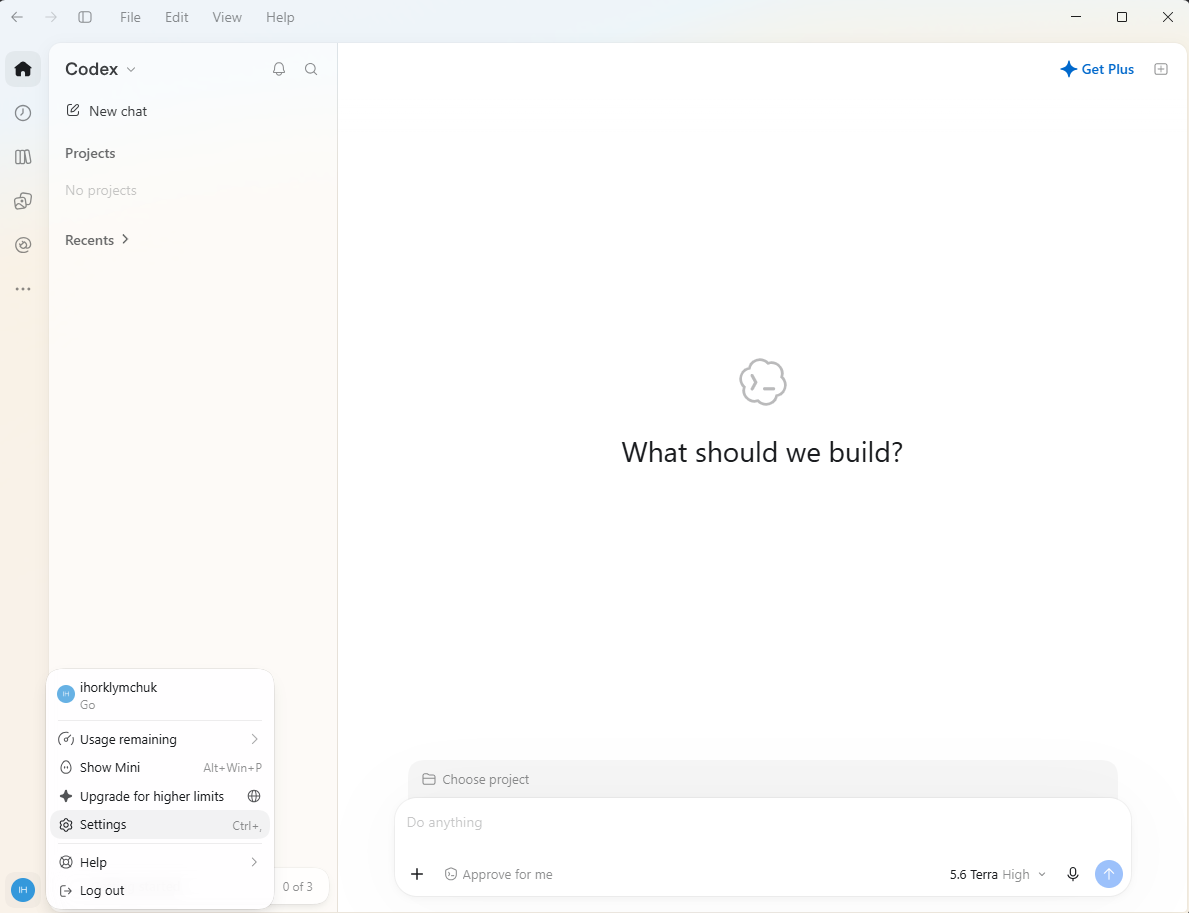
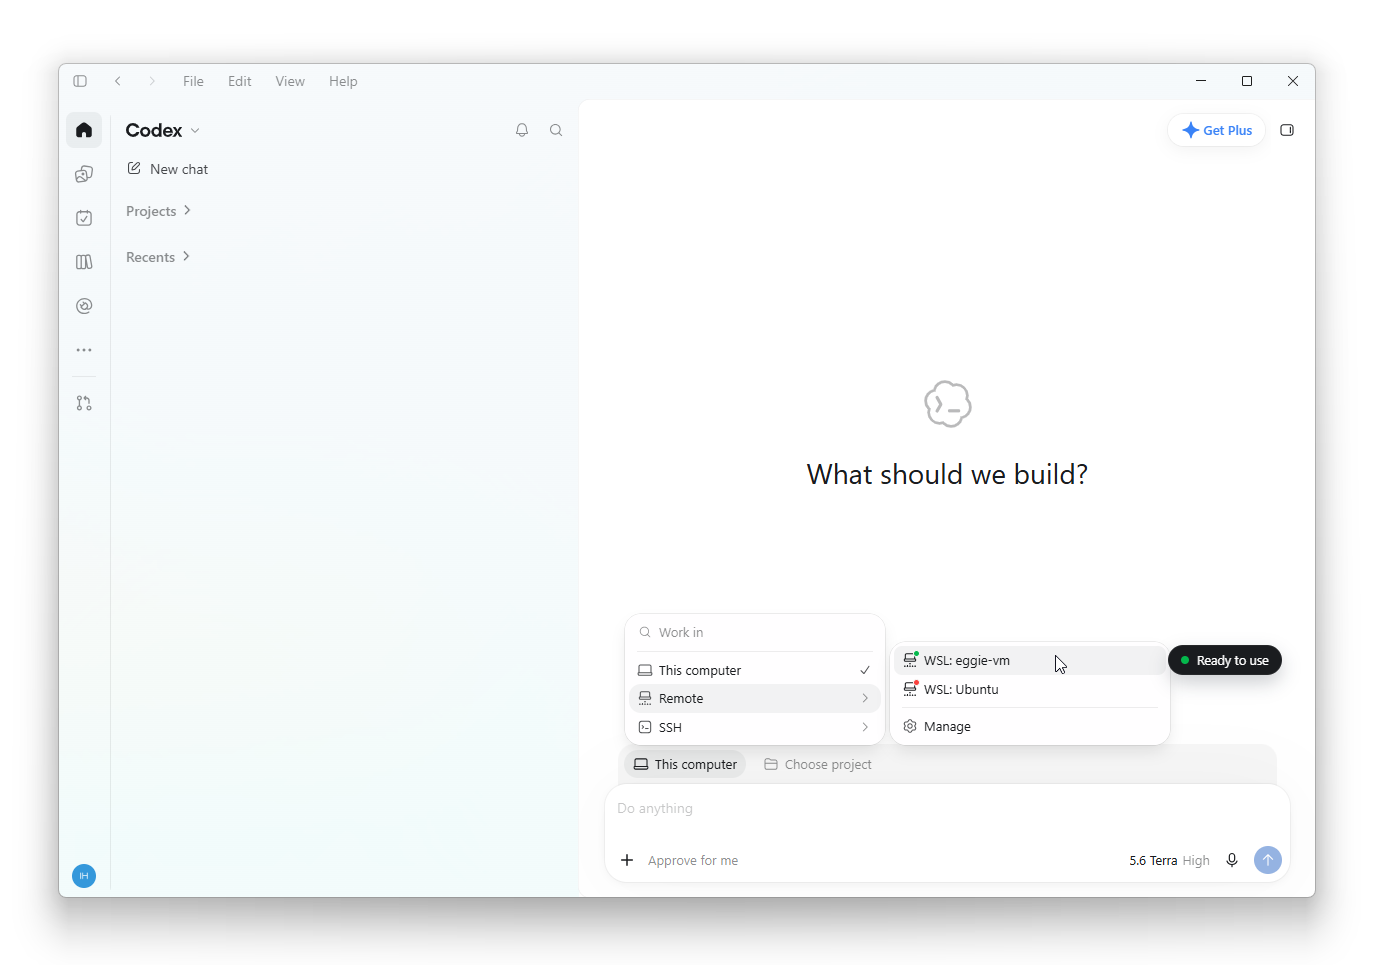
docs(desktop): new ChatGPT (Codex) guide screenshots for Windows and Mac
Steps now follow the Work in picker (Remote → WSL: eggie-vm on Windows,
SSH → host for kitchens) shown in the new screenshots.

diff --git a/tests/host/desktop/test_api_connect.py b/tests/host/desktop/test_api_connect.py
@@ -116,7 +116,7 @@ def test_codex_local_checks_its_sign_in_in_the_vm_before_trusting_the_folder(tmp
                     ("agent", "done"), ("entry", "running"), ("entry", "done")]
     assert end["type"] == "done"
     # ChatGPT reads what Eggie set up only when it starts.
-    assert [step["title"] for step in end["steps"]][:2] == ["Restart ChatGPT", "Run Codex in WSL"]
+    assert [step["title"] for step in end["steps"]][:2] == ["Restart ChatGPT", "Run Codex in eggie-vm"]
 
 
 def test_a_vm_that_does_not_answer_fails_the_agent_row(tmp_path):
